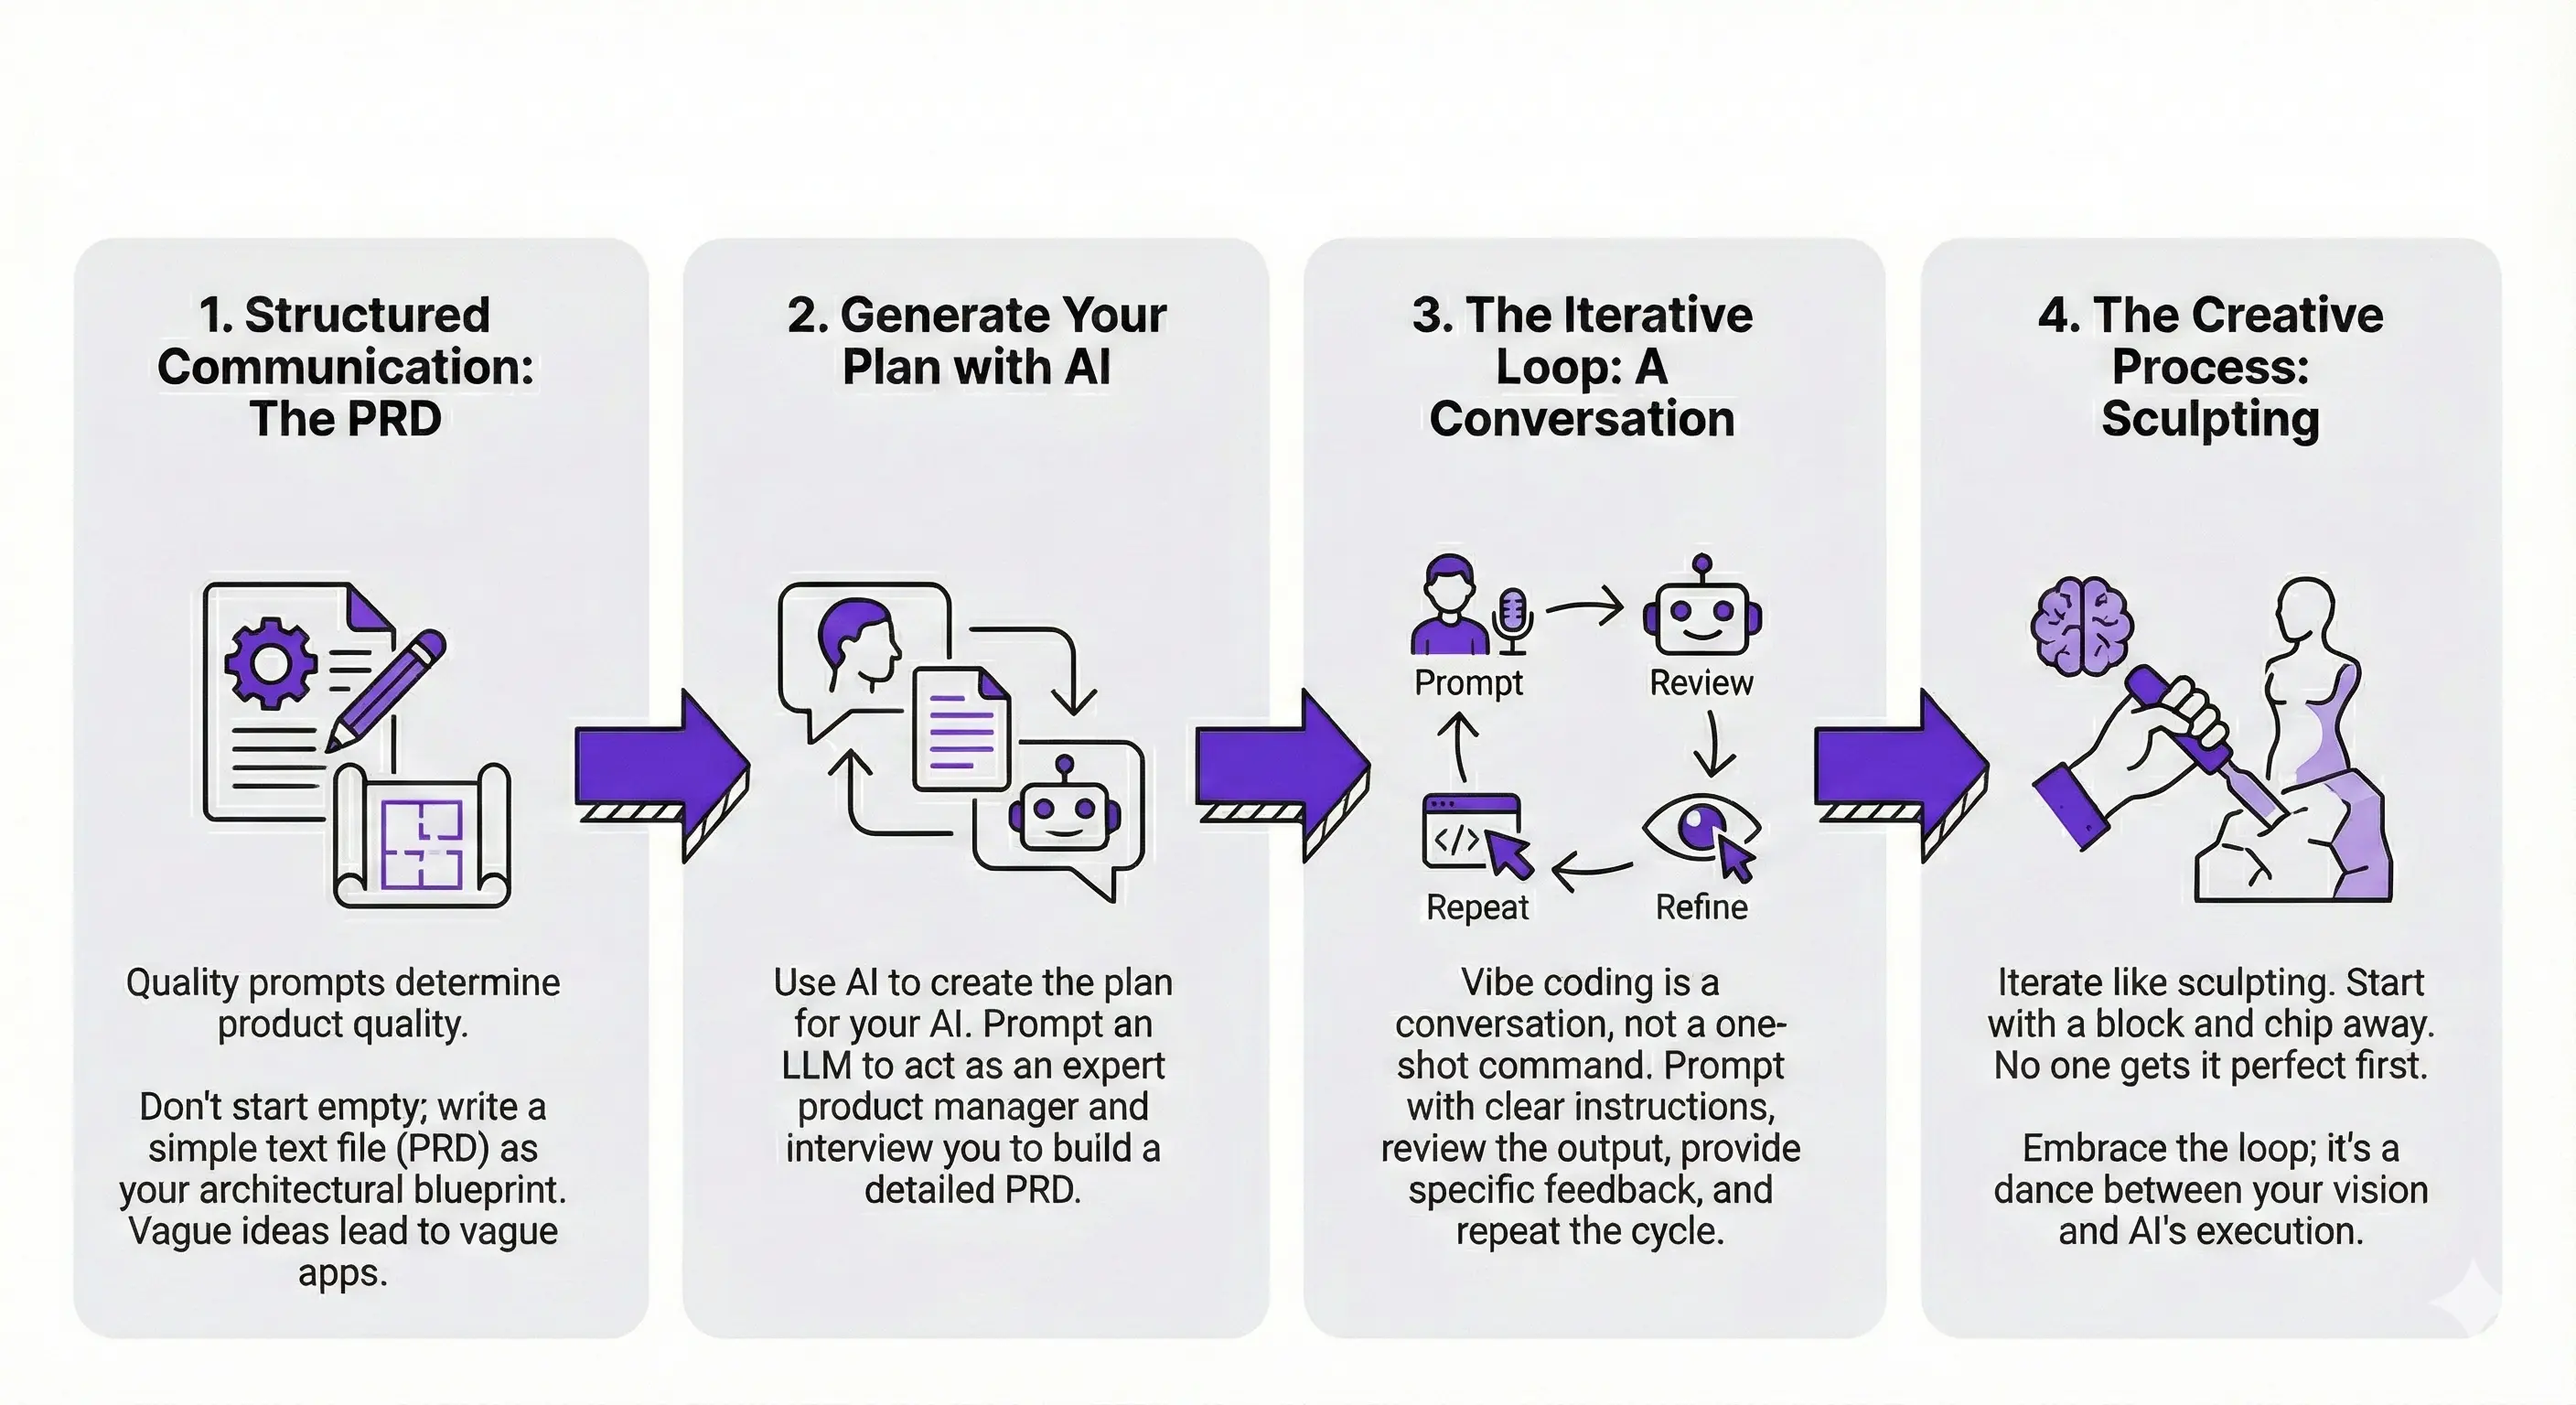
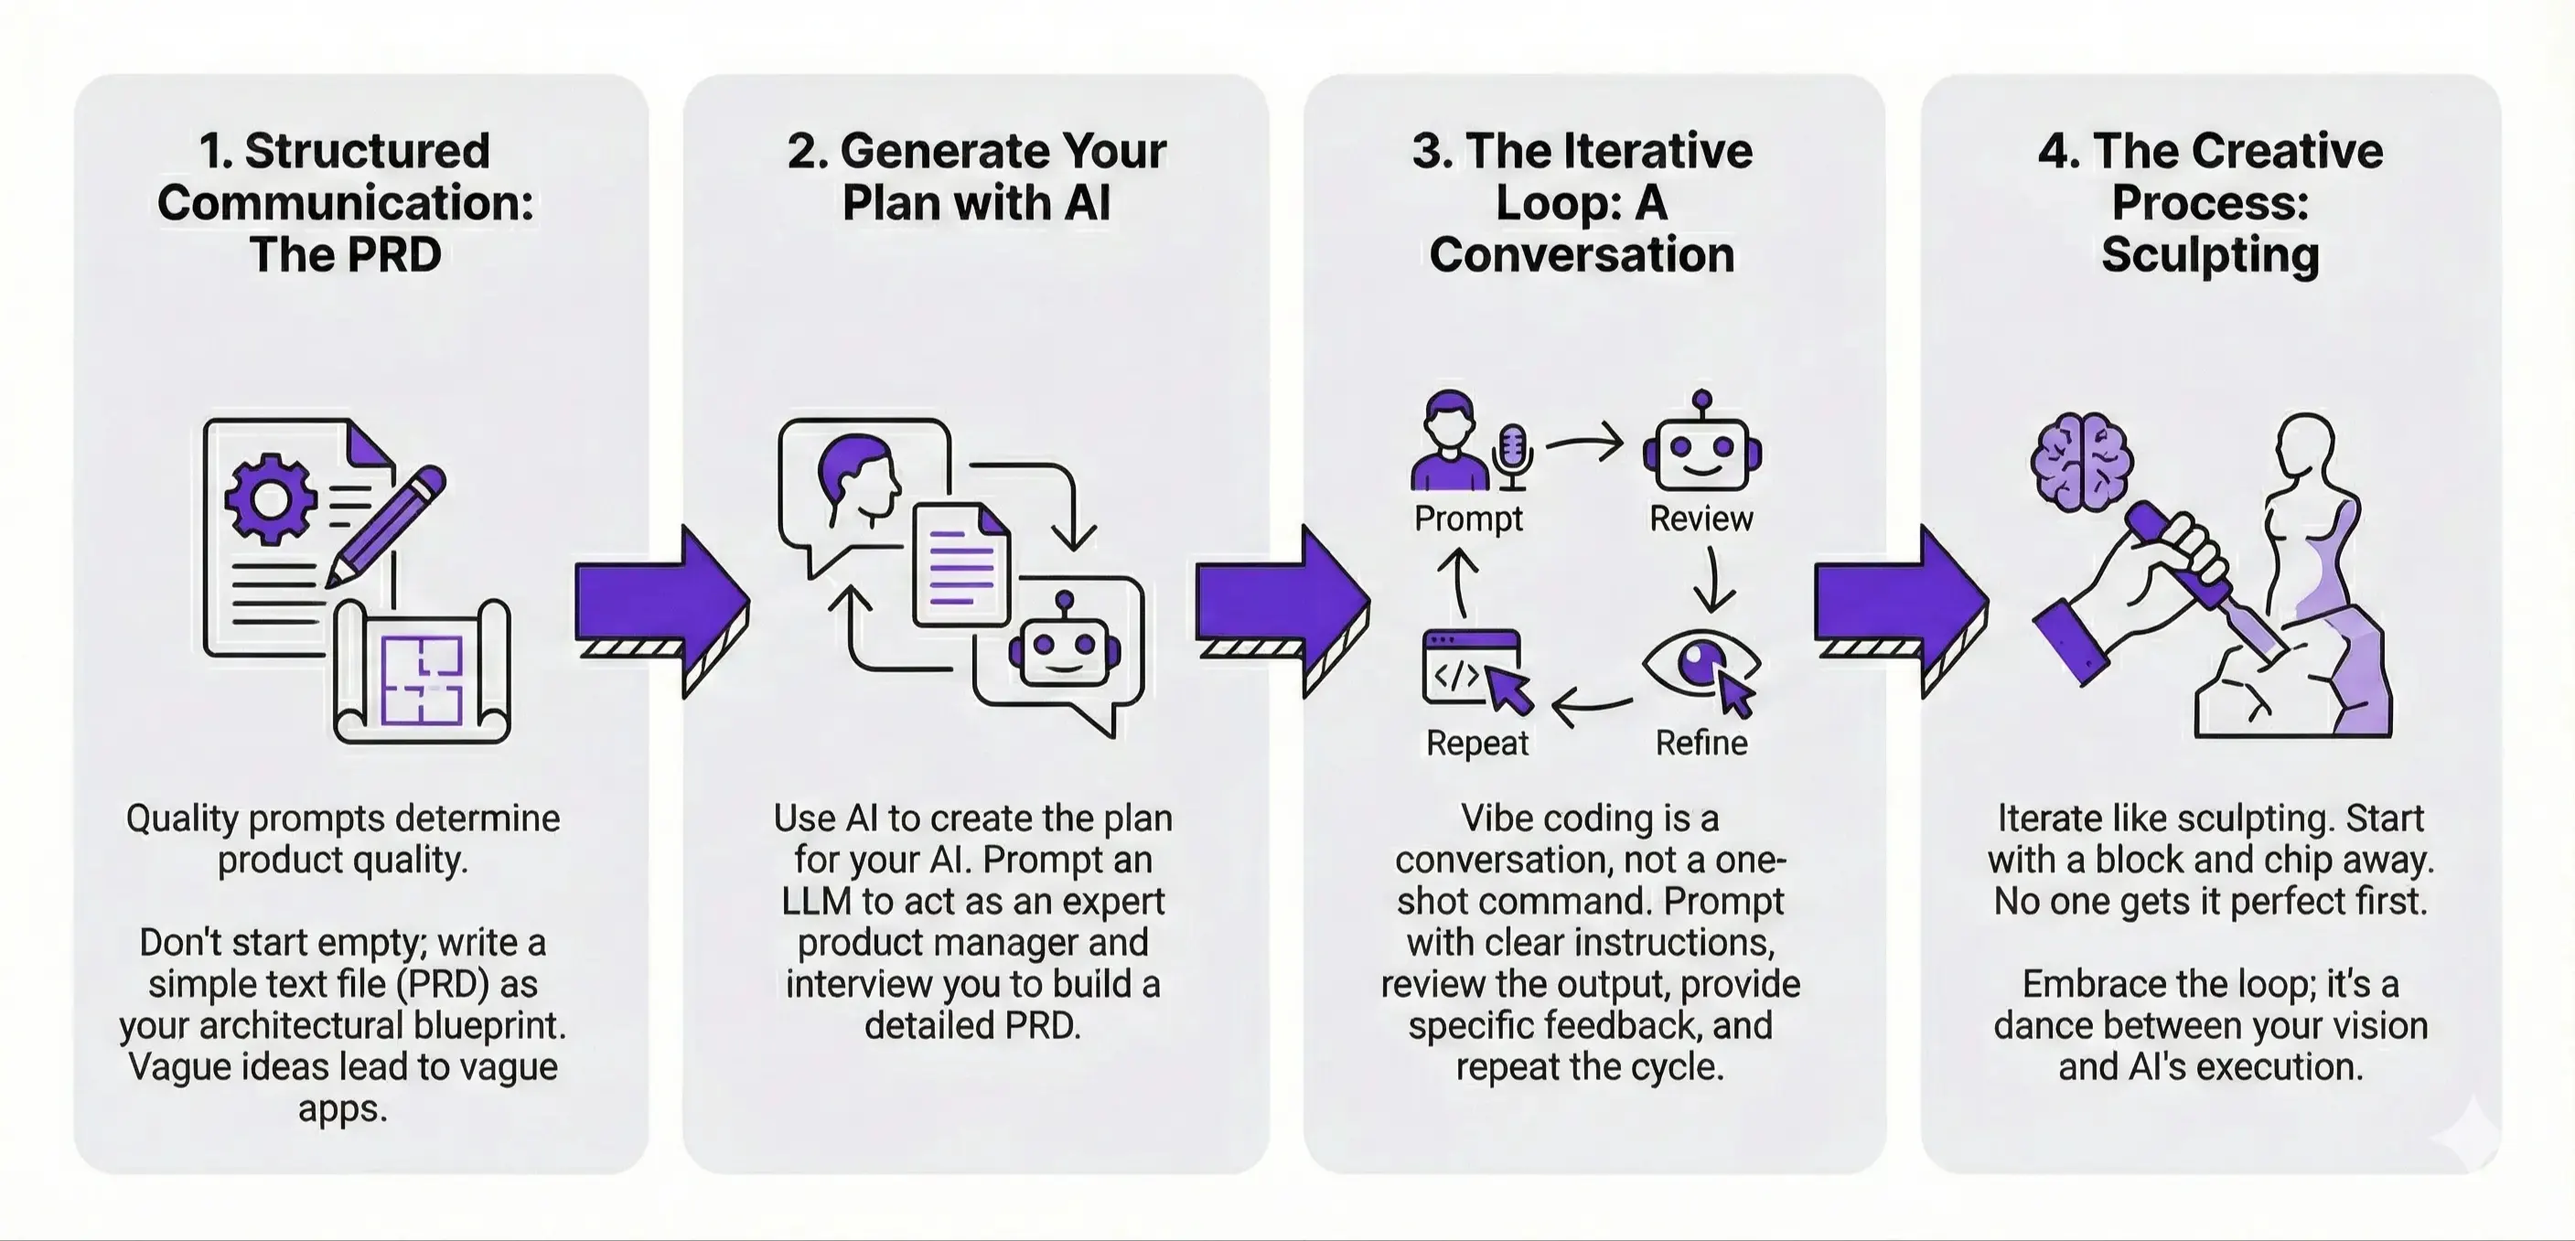
add this image in module 2 like we have in other modules - Vibe_coding_m

diff --git a/src/app/vibe-coding-101/page.tsx b/src/app/vibe-coding-101/page.tsx
@@ -16,6 +16,7 @@ import Link from 'next/link';
 import { Card, CardContent, CardHeader, CardTitle, CardDescription } from '@/components/ui/card';
 import VibeCodingInfographic from './Vibe_coding_infographic_Vedang_Vatsa.webp';
 import VibeCodingModule1 from './Vibe_coding_module1_vedang_vatsa.webp';
+import VibeCodingModule2Image from './Vibe_coding_module2_vedang_vatsa.webp';
 import VibeCodingModule3Image from './Vibe_coding_module3_vedang_vatsa.webp';
 import VibeCodingModule5Image from './Vibe_coding_module5_vedang_vatsa.webp';
 import FirebaseStudioImage from './Google_Firebase_Studio_Vedang_Vatsa.jpg';
@@ -296,6 +297,12 @@ export default function VibeCodingCoursePage() {
                         </div>
                     </div>
                      <p className="text-muted-foreground mt-4">Your toolbox determines your speed and capabilities. There is no single 'best' tool, only the right tool for the job. Let's explore the landscape from beginner-friendly visual builders to professional-grade code editors, so you can choose the one that best fits your project and your style.</p>
+                    <Image 
+                        src={VibeCodingModule2Image}
+                        alt="Infographic for Module 2 of Vibe Coding course"
+                        className="mt-4 rounded-lg shadow-md w-full"
+                        data-ai-hint="infographic abstract"
+                    />
                 </CardHeader>
                 <CardContent className="p-6">
                      <Accordion type="single" collapsible className="w-full">
@@ -733,7 +740,3 @@ export default function VibeCodingCoursePage() {
     </div>
   );
 }
-
-    
-
-    
